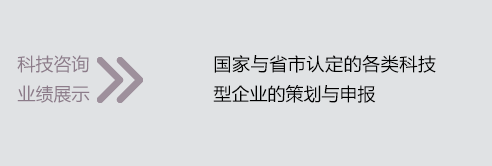
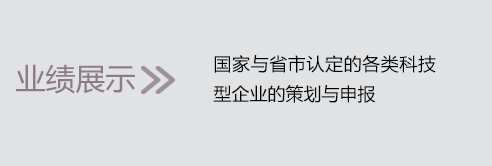
科技咨询首页、业绩展示页面修改

Changed region(s): [[0.0305, 0.3313, 0.3659, 0.6325]]

diff --git a/r/cms/kjzx/kjzx/css/xwzx.css b/r/cms/kjzx/kjzx/css/xwzx.css
@@ -3,14 +3,18 @@
 .xwzx .cnt-wrapper .m-cnt {border-right: 2px solid #eaeaea;width: 856px;padding: 30px 40px 30px 20px;box-sizing: border-box;float: left;}
 .xwzx .cnt-wrapper .m-cnt .classify{
     width: 100%;border: 2px solid #e1e1e1;border-radius: 10px;}
-.xwzx .cnt-wrapper .m-cnt .classify .tit{display: inline-block;vertical-align: middle;width: 114px;font-size: 16px;text-indent: 8px;}
-.xwzx .cnt-wrapper .m-cnt .classify .list{display: inline-block;vertical-align: middle;width: 82%;}
-.xwzx .cnt-wrapper .m-cnt .classify .list li{display:block;font-size: 18px;}
-.xwzx .cnt-wrapper .m-cnt .classify .list li a{padding: 6px;display: inline-block;margin: 4px 0;}
-.xwzx .cnt-wrapper .m-cnt .classify .list li a:hover{background-color: #0064b5;color: #fff;}
-.xwzx .cnt-wrapper .m-cnt .classify .list li .active{background-color: #0064b5;color: #fff;}
-.xwzx .cnt-wrapper .m-cnt .classify .list li:nth-child(1){padding-right: 50px;}
-.xwzx .cnt-wrapper .m-cnt .classify .list li:nth-child(3){padding-right: 30px;}
+.xwzx .cnt-wrapper .m-cnt .classify .tit{display: inline-block;vertical-align: middle;width: 114px;font-size: 16px;text-indent: 8px;margin-top: -70px;}
+.xwzx .cnt-wrapper .m-cnt .classify .list{display: inline-block;vertical-align: middle;width: 82%;margin: 5px 0;}
+.xwzx .cnt-wrapper .m-cnt .classify .list li{display:inline-block;font-size: 15px;width: 48%;padding-left: 10px;vertical-align: center;}
+.xwzx .cnt-wrapper .m-cnt .classify .list li a{padding: 6px;display: inline-block;margin: 4px 0;width: 70%;min-height:2rem;}
+.xwzx .cnt-wrapper .m-cnt .classify .list li a:hover{color:#0a9fe1;}
+.xwzx .cnt-wrapper .m-cnt .classify .list li .active{color:#0a9fe1;}
+.zhaopian{width: 15%;height: 40px;}
+/*.xwzx .cnt-wrapper .m-cnt .classify .list li:nth-child(1){float: left;}
+.xwzx .cnt-wrapper .m-cnt .classify .list li:nth-child(2){float: left;}
+
+.xwzx .cnt-wrapper .m-cnt .classify .list li:nth-child(4){float: left;}
+.xwzx .cnt-wrapper .m-cnt .classify .list li:nth-child(3){float: left;}*/
 .xwzx .cnt-wrapper .ad-wrapper {padding: 30px 0;font-size: 0;float: right;width: 300px;}
 .xwzx .cnt-wrapper .ad-wrapper img {margin-bottom: 12px;}
 .xwzx .cnt-wrapper .more {height: 54px;background: url("../imgs/xwzx-more.png") #e1dede 50% 50% no-repeat;cursor: pointer;}

diff --git a/WEB-INF/t/cms/kjzx/kjzx/index/index.html b/WEB-INF/t/cms/kjzx/kjzx/index/index.html
@@ -104,9 +104,10 @@
                 <div class="tag-tt" id="tagTt">
                     <div class="item active" data-target="#c1">新闻中心</div>
                     <div class="item" data-target="#c2">业绩展示</div>
-                    <a href="${base}/kjzx/zyyw/index.jhtml" class="item" data-target="#c3" style="height: 16px;">主营业务</a>
+                   <a href="${base}/kjzx/zyyw/index.jhtml" class="item item1" data-target="#c3" style="height: 16px;">主营业务</a>
 
                 </div>
+               <!-- <div class="zhuying"> <a href="${base}/kjzx/zyyw/index.jhtml"  data-target="#c3" >主营业务</a></div>-->
                 <div class="tab-bd">
                      <div id="c1" class="item  active">
                         [@cms_content_list count='4' orderBy='4' channelId='231' channelOption='1'
@@ -127,13 +128,13 @@
                         [/@cms_content_list]
                     </div>
                     <div id="c3" class="item ">
-                        [@cms_content_list count='4' orderBy='4' channelId='232' channelOption='1'
+                      <!--  [@cms_content_list count='4' orderBy='4' channelId='232' channelOption='1'
                         dateFormat='yyyy-MM-dd']
                         [#list tag_list as a]
                         <a href="${a.url}">${a.title}</a>
                         <br>
                         [/#list]
-                        [/@cms_content_list]
+                        [/@cms_content_list]-->
                     </div>
                 </div>
             </div>

diff --git a/r/cms/kjzx/kjzx/css/index.css b/r/cms/kjzx/kjzx/css/index.css
@@ -43,6 +43,7 @@ img{border:0;vertical-align:middle;-ms-interpolation-mode:bicubic}
 .index .news .w-1 .h1{font-size: 18px;line-height: 18px;display: block;font-weight: 600;color:#505960;}
 .index .news .w-1 .p{font-size: 14px;line-height: 24px;display: block;margin-top: 24px;color:#858585;}
 .index .news .w-2{width: 470px;float: right;}
+.zhuying{margin-left: 170px;margin-top: -38px;position: absolute;font-size: 14px;color: #747474;font-weight: bold;height: 16px;}
 .index .news .w-2 .tag{}
 .index .news .w-2 .tag-tt{height: 33px;position: relative}
 .index .news .w-2 .tag-tt:after{content: '';position: absolute;left: 0;bottom: 0;width: 100%;height: 2px;background-color: #dedfe2;}
@@ -52,7 +53,7 @@ img{border:0;vertical-align:middle;-ms-interpolation-mode:bicubic}
 .index .news .w-2 .tab-bd{}
 .index .news .w-2 .tab-bd .item{display: none;padding: 9px 0}
 .index .news .w-2 .tab-bd .item.active{display: block}
-.index .news .w-2 a{font-size: 14px;line-height: 24px;height: 24px;color: #858585;}
+.index .news .w-2 a{font-size: 14px;line-height: 24px;height: 24px;}
 .index .news .w-2 .tab-bd a:hover{color:#556cfd;text-decoration: underline}
 .index .news .w-3{width: 170px;float: right;font-size: 12px;line-height: 14px;}
 .index .news .w-3 .txt-1{font-weight: 600;font-size: 13px;}

diff --git a/WEB-INF/t/cms/kjzx/kjzx/channel/column_menu_yjzs.html b/WEB-INF/t/cms/kjzx/kjzx/channel/column_menu_yjzs.html
@@ -50,6 +50,7 @@
                         [@cms_channel_list parentId=channel.parentId]
                         [#list tag_list as c2]
                         <li>
+                            <img src="${c2.titleImg!}" alt="" width="100%" class="zhaopian">
                             <a href="${c2.url}" class="[#if c2.id == channel.id]active[/#if]">
                                 ${c2.name}
                             </a>
@@ -58,8 +59,9 @@
                         [/@cms_channel_list]
                     </ul>
                 </div>
-                <div class="classify" style="padding: 5px 0;margin-top: 20px;">
+                <div class="classify" style="padding: 5px 3%;margin-top: 20px; width: 94%;">
                     ${channel.txt!}
+
                 </div>
                 [@cms_content_page orderBy='4' channelId=channel.id count=10 channelOption='0'
                 dateFormat='[dd,MM,yyyy]' currPageClass="currPageClass" norPageClass="norPageClass"]

diff --git a/WEB-INF/t/cms/zckj/zckj/channel/news_hdjx.html b/WEB-INF/t/cms/zckj/zckj/channel/news_hdjx.html
@@ -34,7 +34,7 @@
                 <span class="huodong">活动中心</span>
                 <div class="xiahuaxian" style="background-image:  url(/${res}/imgs/xiahuaxian.png)"></div>
                 <div class="zongti">
-                    [@cms_content_page channelId=channel.id count='3' titLen='20' append='...' orderBy='2' dateFormat='yyyy-MM-dd' channelOption='1']
+                    [@cms_content_page channelId=channel.id count='4' titLen='20' append='...' orderBy='2' dateFormat='yyyy-MM-dd' channelOption='1']
                     [#list tag_pagination.list as a]
                     <ul class="zongui">
                         <li class="biaoqian">
